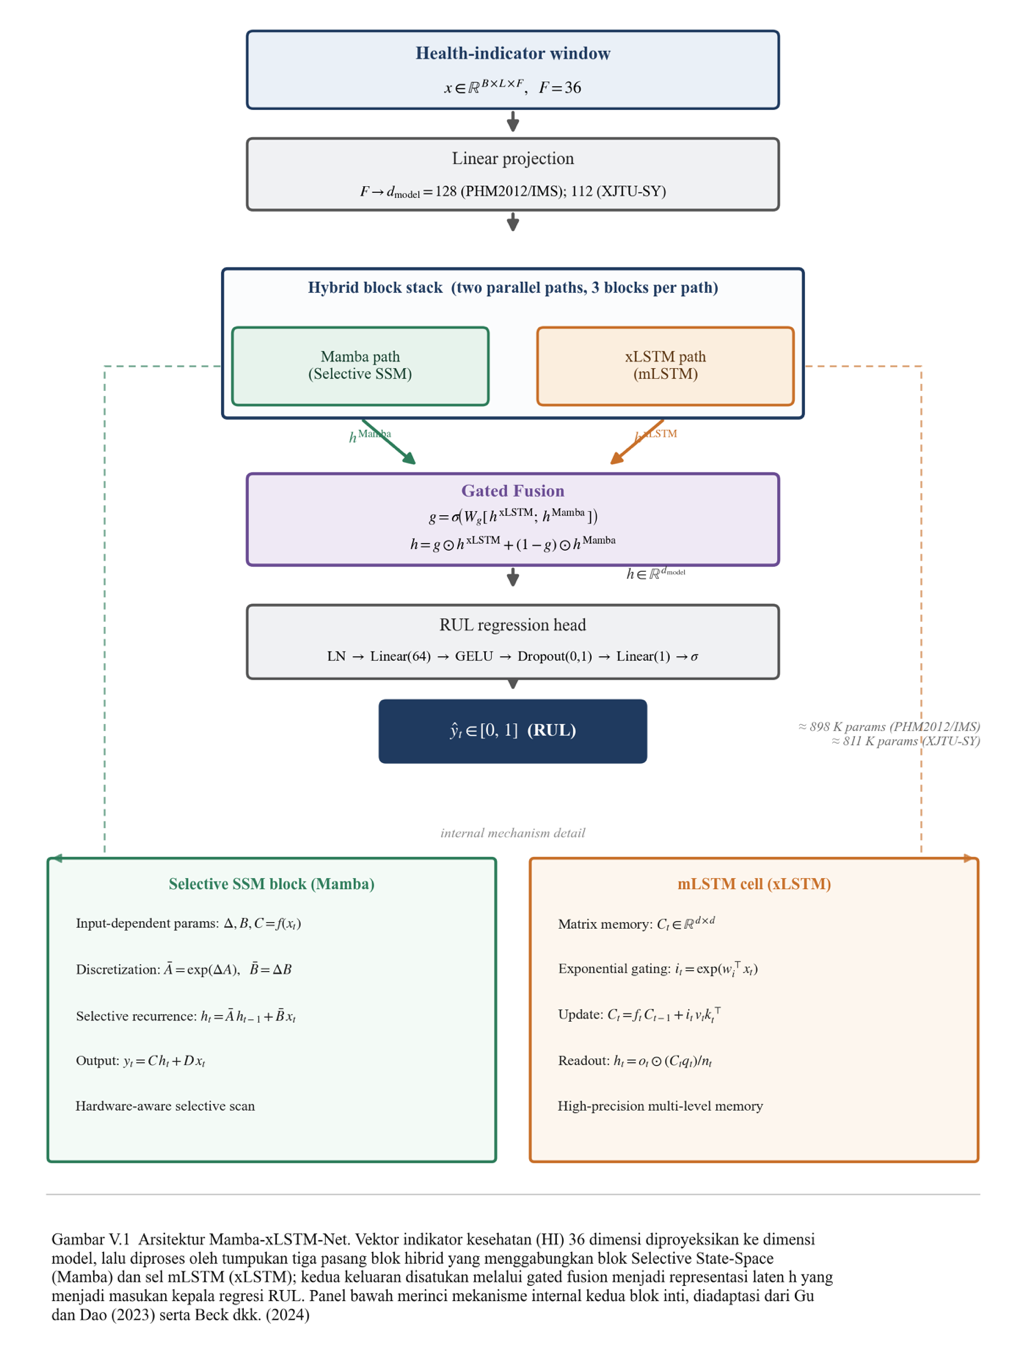
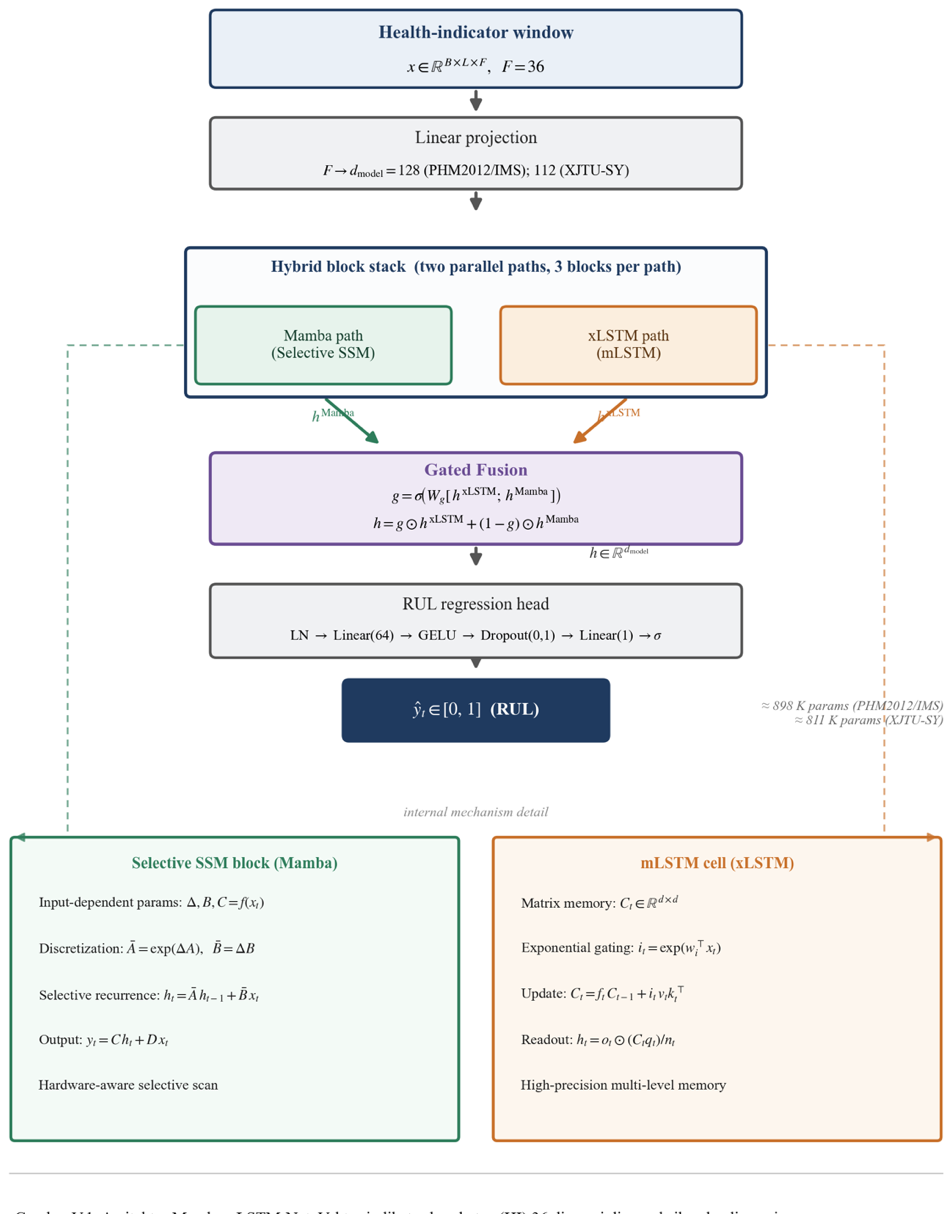
polish(presentation): visual QA fixes, em-dash guard, README for the V14 era
Visual QA on the rendered PNGs: slide 11 timeline moved to a two-column
layout so the figure gets real width; slide 13's collapsed column heights
fixed; slide 18's Gambar IV.8 caption now describes the actual artwork
(V14's own caption mismatches its art) and the stats row no longer
overflows; the extracted Mamba V.1 figure drops its baked caption strip.
The source block's default label read 'Sumber & metode:' — an ampersand
the ITB rules forbid; now 'Sumber dan metode:'. Three em dashes in prose
replaced, with a new test_no_em_dash_in_prose guard.

README rewritten for the V14 era: manuscript-of-record note, 47-slide
RQ-driven structure, v14-assets target, the V14-internal inconsistency
table (three-vs-four RM leftovers, caption/table accuracy mismatches,
IMS still present in figure artwork).

Claude-Session: https://claude.ai/code/session_01VPxUBMA37K3bjY1ZnjmBgu

Changed region(s): [[0.0, 0.0, 1.0, 0.9753], [0.8834, 0.2743, 0.9139, 0.3048]]

diff --git a/presentation/tools/extract_v14_media.py b/presentation/tools/extract_v14_media.py
@@ -34,10 +34,11 @@ MAP = {
     54: "gambar_v14_perbandingan_backbone.png", # Gambar V.14 RMSE + PHM Score
 }
 
-# These three carry a stale figure number baked into the pixels (the art was
-# generated for an earlier manuscript revision: D.1 / V.3 / V.4). Cut the
-# caption strip off at the given row, then trim the white margins.
-CROP_BOTTOM = {40: 520, 45: 860, 46: 860}
+# These carry a caption baked into the pixels — three with a stale figure
+# number from an earlier manuscript revision (D.1 / V.3 / V.4), one merely
+# duplicating the slide caption. Cut the strip off at the given row, then
+# trim the white margins.
+CROP_BOTTOM = {40: 520, 41: 1235, 45: 860, 46: 860}
 
 
 def _clean(data: bytes, bottom: int) -> bytes:

diff --git a/presentation/tests/test_deck.py b/presentation/tests/test_deck.py
@@ -96,6 +96,14 @@ def test_no_ampersand_conjunction(spec):
     assert " & " not in raw
 
 
+def test_no_em_dash_in_prose(spec):
+    """ITB style forbids em dashes in prose; use koma/titik koma or an en dash."""
+    import yaml
+
+    raw = yaml.safe_dump(spec, allow_unicode=True)
+    assert "—" not in raw, "em dash found in a rendered string"
+
+
 def test_decimal_comma_in_numbers(spec):
     """Indonesian decimal separator is a comma, never a period."""
     import re

diff --git a/presentation/deck/blocks.py b/presentation/deck/blocks.py
@@ -898,7 +898,7 @@ def m_source(spec: dict, width: float) -> float:
 
 
 def r_source(slide, spec: dict, box: Box) -> None:
-    text = f"**{spec.get('label', 'Sumber & metode:')}**  ~~{spec['body']}~~"
+    text = f"**{spec.get('label', 'Sumber dan metode:')}**  ~~{spec['body']}~~"
     shapes.label(slide, box.x, box.y, box.w, 0.26, text,
                  size=Size.SOURCE, color=Color.MUTED, accent=Color.MUTED, italic=False)
 

diff --git a/presentation/README.md b/presentation/README.md
@@ -9,11 +9,29 @@ from the approved reference deck in [`reference/`](reference/) and
 frozen in [`deck/theme.py`](deck/theme.py), so regenerated decks stay visually
 identical to the version Pak Toto approved.
 
+**Manuscript of record: the V14 DOCX** at the top of this directory
+(`V14 PERAWATAN PREDIKTIF … .docx`, gitignored binary). Every number, figure
+citation, and claim in the deck traces to it — not to the older
+`dissertation-docx/` tree, whose numbers conflict with V14 in places.
+
+## Deck structure (47 slides)
+
+The main deck (35 slides) is organised around V14's **four rumusan masalah**:
+an intro arc (latar belakang, istilah inti untuk penguji non-informatika,
+kesenjangan, the RM spine slide reprising Tabel I.3, kerangka, dataset), then
+four acts — one per RM — each opened by a `section` divider restating the
+question and closed by a "Jawaban RM-N" slide with its epistemic status
+(empiris / empiris-kualitatif / konseptual). Bridging slides for the
+industrial-engineering panel sit just-in-time: ML vs DL, cara membaca RUL,
+analogi stabilo for SHAP, kamus konsep for the SAE. Twelve backup slides
+("Cadangan") follow the closing slide for the Q&A session.
+
 ## Quick start
 
 ```bash
 cd presentation
-make install          # python-pptx, PyYAML, lxml
+make install          # python-pptx, PyYAML, lxml, Pillow
+make v14-assets       # extract deck figures from the V14 DOCX media
 make build            # content/sidang-terbuka.yaml -> out/….pptx
 make preview          # build + PDF via LibreOffice
 make png              # build + one PNG per slide (needs poppler)
@@ -30,14 +48,18 @@ make build SPEC=content/seminar-kemajuan.yaml OUT=out/Seminar.pptx
 
 ```
 presentation/
+├── V14 PERAWATAN PREDIKTIF ….docx   ★ manuscript of record (gitignored binary)
 ├── build.py                    CLI: build · lint · preview · inspect
 ├── Makefile
 ├── assets/
-│   └── logo-itb.png            ITB seal used on the cover
+│   ├── logo-itb.png            ITB seal used on the cover
+│   └── v14/                    figures extracted from the V14 DOCX media
 ├── content/
 │   └── sidang-terbuka.yaml     ★ the deck content — this is what you edit
 ├── reference/
 │   └── Sidang_Disertasi_…_v2.pptx   approved template the design was derived from
+├── tools/
+│   └── extract_v14_media.py    pulls figures out of the V14 DOCX by media index
 ├── deck/
 │   ├── theme.py                design tokens: palette, type scale, grid
 │   ├── shapes.py               primitives + inline markup + text measurement
@@ -48,7 +70,7 @@ presentation/
 │   └── builder.py              spec loading, linting, rendering
 ├── tests/
 │   ├── test_deck.py            renderer + layout regressions
-│   └── test_provenance.py      every slide figure must exist in the manuscript
+│   └── test_provenance.py      every slide figure must exist in the V14 manuscript
 └── out/                        build artifacts (git-ignored)
 ```
 
@@ -142,13 +164,20 @@ hold (no `&` standing in for `dan`, decimal commas on percentages).
 
 ### Provenance guard
 
-`tests/test_provenance.py` is the important one. It reads the DOCX chapters,
-lampiran and frontmatter under `dissertation-docx/` and asserts that **every
-headline figure on a slide actually appears in the manuscript** — accuracies,
-RMSE values, hit-rates, thresholds, acquisition counts, citations. A claim that
+`tests/test_provenance.py` is the important one. It reads the **V14 DOCX** and
+asserts that **every headline figure on a slide actually appears in the
+manuscript** — accuracies, RMSE values, hit-rates, thresholds, acquisition
+counts, citations (90 claims). Two further tests assert that every
+`Gambar X.N` / `Tabel X.N` cited on a slide exists in V14, and that no
+pre-V14 reference (Lampiran D.5, Gambar D.2/D.4) survives. A claim that
 drifts from the dissertation fails the build rather than reaching the defence.
 
-It skips cleanly when the manuscript tree is absent. When a number legitimately
+The older `dissertation-docx/` tree is deliberately **not** in the corpus:
+its numbers conflict with V14 (XJTU-SY 15 rekaman vs 10 bearing, IMS dropped,
+SKF moved from Lampiran D into Subbab IV.15 / V.5.3, figures renumbered), and
+a claim passing via the stale tree would defeat the guard.
+
+It skips cleanly when the V14 DOCX is absent. When a number legitimately
 changes in the manuscript, update the YAML and the matching entry in `CLAIMS`.
 
 ## Re-deriving the template
@@ -163,32 +192,37 @@ make inspect FILE=reference/Sidang_Disertasi_Toto_Suharto_v2.pptx
 ## Content provenance
 
 Figures and claims in `content/sidang-terbuka.yaml` are sourced from the
-manuscript, not re-derived here:
+**V14 manuscript**, not re-derived here:
 
-| Slide content | Source |
+| Slide content | Source in V14 |
 |---|---|
-| Bearing 40–50%, WDCNN 99,87%, FSM 0,940 / 0,216 / 0,735 | `writings/disertation/chapters/00-abstrak-id.tex` |
-| RUL winners per dataset (PHM2012 / XJTU-SY / IMS) | `chapters/05-prognostik.tex`, Tabel V.9 |
-| BPFx hit-rate across four datasets, IMS partial mismatch, CWRU underpowered | `chapters/05-prognostik.tex`, Tabel V.12 + §V.9 |
-| Chapter and novelty structure (N1–N5, RM-1…3) | `writings/dissertation-outline.md` |
-| SKF streaming validation (158/78 acquisitions, EoL, fusion gate, attributions) | `lampiran/lampD.docx`, Subbab D.5 |
+| Empat RM verbatim, Tabel I.3 lattice (Tujuan–RM–Kesenjangan–Novelti–Bab) | Subbab I.2, I.3, I.5 |
+| Bearing 40–50% (Nandi dkk., 2005), Making Indonesia 4.0, PT SKF Cikarang | Bab I |
+| Benchmark CWRU (DT 92,40 → WDCNN 99,87%), Ball_014→IR_014, HI 36-D | Bab IV |
+| FSM 0,940 / 0,216 / 17,6%, ablasi BatchNorm +133% / −3,60 pp, 42,67 ms | Subbab IV.6–IV.13 |
+| RUL winners (SparseGate 0,226 PHM2012; Mamba 0,213 XJTU-SY), PHM Score | Tabel V.2/V.4/V.5 |
+| SAE (128→1.024, k=51), hit-rate, kontrol negatif, Bonferroni 0,004, sweep k=205 | Subbab V.2–V.4, V.6–V.9 |
+| SKF: IV.15 transfer diagnostik; V.5.3 streaming (158/78 akuisisi, EoL ±1 hari) | Subbab IV.15, V.5.3, V.5.4 |
+| Keterbatasan (6) dan rekomendasi (7) | Subbab VI.4, VI.5 |
 
 When those numbers change in the manuscript, update the YAML **and** the
 matching entry in `tests/test_provenance.py`, then rebuild.
 
-### Corrections found during the audit
+### V14-internal inconsistencies (flagged for the manuscript, not fixable here)
 
-The first draft inherited several figures from the reference deck that the
-manuscript does not support. These are fixed and now guarded by tests:
+The deck follows V14's Bab-body values wherever V14 disagrees with itself:
 
-| Was | Is | Source |
-|---|---|---|
-| 40–50% cited to Nectoux dkk. (2012) | Lei (2018) | Bab I |
-| XJTU-SY "15 bearing" | 10 bearing | Bab III |
-| IMS cited to Lee dkk. (2007) | Qiu dkk. (2006), Rexnord ZA-2115, empat bearing | Bab III |
-| Critical threshold "< 15%" | peringatan 40%, kritis 20% | Lampiran D.5.1 |
-| "Ball-14 terbaca sebagai IR-14" · "27 kesalahan SVM → 1" | not in the manuscript; replaced with the Bab IV findings (3,4 pp bagging, 1,3 pp boosting, 2,1 pp non-linearity) | Bab IV |
-| Receptive field "42,7 ms" | 42,67 ms | Bab IV |
-| "EoL terpaut ~1 hari dari kerusakan aktual" | EoL is *anchored* to the observed failure; residual 34 min (NDE) / 40 min (DE) vs zero | Lampiran D.5 |
-| SKF panels "Gambar V.3–V.6" | Gambar D.2–D.5 | Lampiran D.5 |
-| Ablation accuracies presented without context | flagged as the 50-epoch ablation protocol, subset 30/50 | Bab IV |
+| Inconsistency in V14 | Deck's choice |
+|---|---|
+| "tiga permasalahan" leftovers (I.1, I.6.1) vs four RMs in I.2 | four RMs |
+| LR accuracy 94,3% (Tabel IV.1) vs 94,4% (Gambar D.2 caption) | 94,3% |
+| DT/RF/XGB 92,40/95,8/97,1 (Bab IV) vs 94,0/94,9/95,3 (appendix captions) | Bab IV values |
+| Var-C 96,13% (Tabel IV.5) vs 92,0% (Gambar F.2 caption) | 96,13% |
+| WDCNN best epoch 54 (body) vs 47 (Gambar IV.6 caption) | epoch not cited |
+| "empat dataset publik" (III.2) vs "tiga dataset benchmark dan satu sumber industri" (I.8) | tiga + SKF |
+| Gambar III.1 / V.15 / IV.8 artwork still shows IMS or mismatches its caption | art kept as-is (it is V14's own), captions describe what is shown |
+
+The figure artwork itself (Gambar III.1 kerangka, V.15 hitrate panel, the
+negative-controls chart) still contains IMS panels from before IMS was dropped;
+regenerating those PNGs in the manuscript pipeline will fix the deck too, since
+the deck references the same files.
